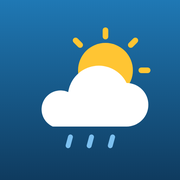
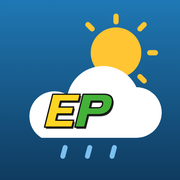
Ícono nuevo: clima + Excavaciones Pastori
Claude-Session: https://claude.ai/code/session_01DekXT5tZkMm3KACpGuwiMT

Changed region(s): [[0.1389, 0.0556, 0.9167, 0.8889]]

diff --git a/sw.js b/sw.js
@@ -1,6 +1,6 @@
 /* Service worker: guarda la app para abrirla sin señal.
    El pronóstico y las alertas van siempre primero a la red; si no hay, usa lo último guardado. */
-const VERSION = "clima-v7";
+const VERSION = "clima-v8";
 const SHELL = ["./", "index.html", "styles.css", "app.js", "privado.js", "firebase.js", "manifest.webmanifest", "icons/icon-192.png", "icons/icon-512.png",
   "https://unpkg.com/leaflet@1.9.4/dist/leaflet.css", "https://unpkg.com/leaflet@1.9.4/dist/leaflet.js"];
 
